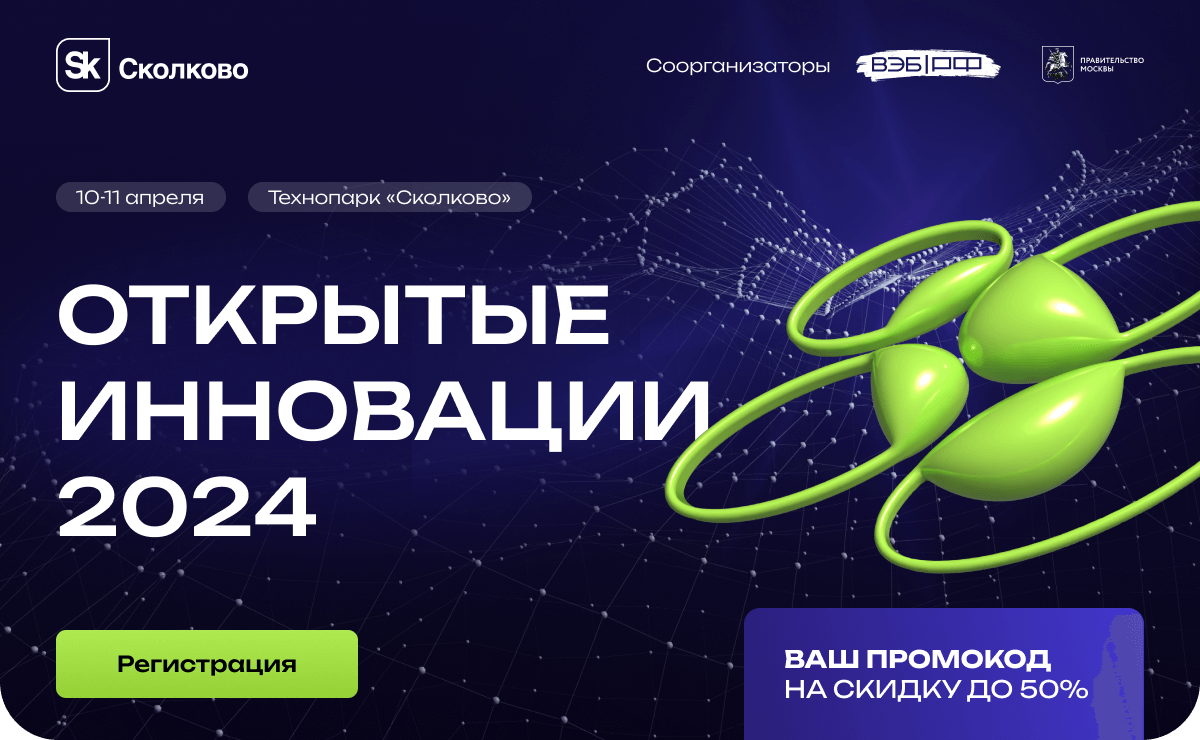
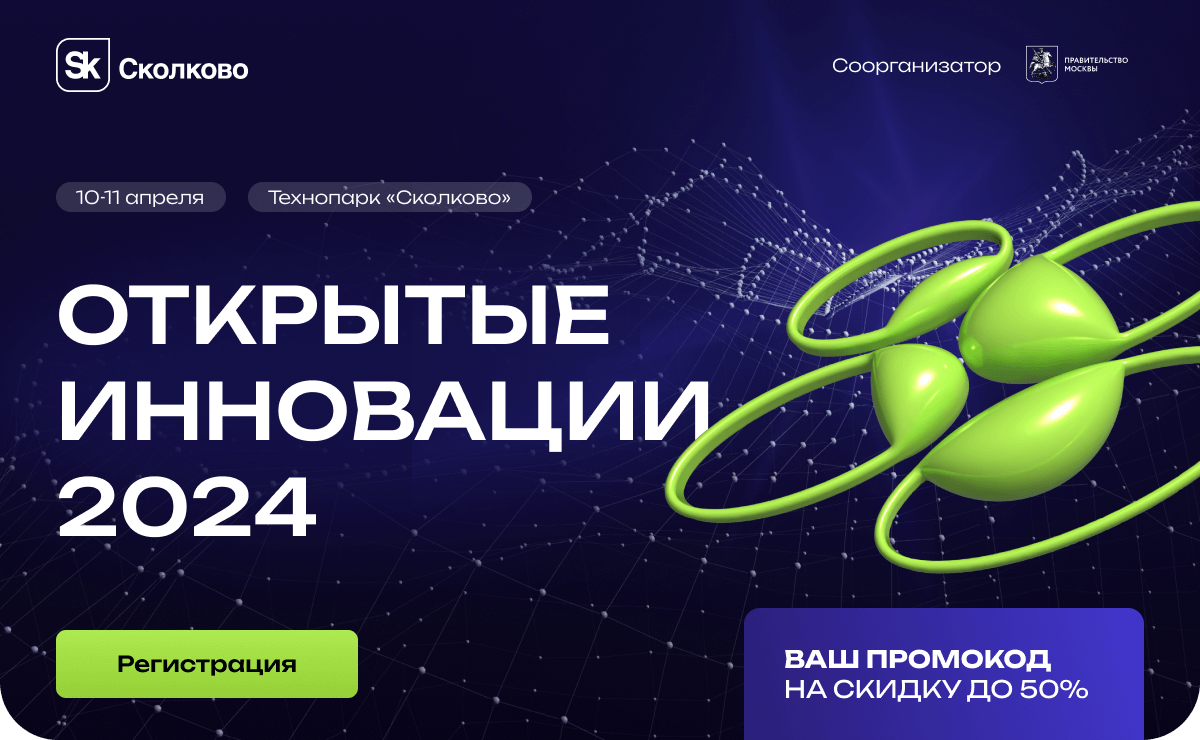
change open-innovations-2024-discount-2

Changed region(s): [[0.555, 0.0622, 0.9558, 0.1243], [0.925, 0.8081, 0.9558, 1.0]]

diff --git a/open-innovations-2024-discount-2/Промокод на скидку.html b/open-innovations-2024-discount-2/Промокод на скидку.html
@@ -92,7 +92,7 @@
                                             <td style="width: 640px;">
                                                 <a href="https://openinnovations.ru/registration/email?utm_source=email_in&utm_medium=letter&utm_campaign=5" target="_blank">
                                                 <img
-                                                        alt="10-11 апреля. Технопарк «Сколково». ОТКРЫТЫЕ ИННОВАЦИИ 2024. Соорганизаторы: ВЭБ РФ, Правительство Москвы. Ваш промокод на скидку до 50%. Нажмите здесь, чтобы зарегистрироваться."
+                                                        alt="10-11 апреля. Технопарк «Сколково». ОТКРЫТЫЕ ИННОВАЦИИ 2024. Соорганизатор: Правительство Москвы. Ваш промокод на скидку до 50%. Нажмите здесь, чтобы зарегистрироваться."
                                                         height="auto"
                                                         src="https://cp.unisender.com/ru/user_file?resource=images&user_id=5608985&name=oi-discount-2-hero.png"
                                                         style="border: 0; display: block; outline: 0; text-decoration: none; height: auto; width: 100%; font-size: 13px;color:#FFFFFF;"
@@ -490,91 +490,17 @@
                                     <table border="0" cellpadding="0" cellspacing="0" role="presentation" style="border-collapse:collapse;border-spacing:0px;">
                                         <tbody>
                                         <tr>
-                                            <td style="font-size: 0; word-break: break-word; padding: 28px 20px 31px;">
-                                                <div style="font-family: Unbounded, Helvetica, Arial, sans-serif; font-size: 22px; font-weight: 600; line-height: 1.3; color: #fff; max-width: 539px; width: 100%;">СООРГАНИЗАТОРЫ:</div>
+                                            <td style="font-size: 0; word-break: break-word; padding: 50px 20px 31px;">
+                                                <div style="font-family: Unbounded, Helvetica, Arial, sans-serif; font-size: 22px; font-weight: 600; line-height: 1.3; color: #fff; max-width: 539px; width: 100%;text-align: center;">СООРГАНИЗАТОР</div>
                                             </td>
                                         </tr>
-                                        </tbody>
-                                    </table>
-                                </td>
-                            </tr>
-                            </tbody>
-                        </table>
-                    </div>
-                    <!--[if mso | IE]></td></tr></table><![endif]-->
-                </td>
-            </tr>
-            </tbody>
-        </table>
-    </div>
-    <!--[if mso | IE]></td></tr></table><table align="center" border="0" cellpadding="0" cellspacing="0" class="" style="width:600px;background: #0E0B26; background-color: #0E0B26" width="600" bgcolor="#0E0B26"><tr><td style="line-height:1.1;font-size:0px;mso-line-height-rule:at-least;"><![endif]-->
-    <div style="margin:0px auto;max-width:600px;">
-        <table align="center" border="0" cellpadding="0" cellspacing="0" role="presentation" style="width:100%;">
-            <tbody>
-            <tr>
-                <td style="direction:ltr;font-size:0px;text-align:center;">
-                    <!--[if mso | IE]><table role="presentation" border="0" cellpadding="0" cellspacing="0"><tr><td class="" style="vertical-align:top;width:272px;margin-bottom:13px;" ><![endif]-->
-                    <div class="mj-outlook-group-fix" style="font-size:0px;text-align:left;direction:ltr;display:inline-block;vertical-align:top;width:272px;margin-bottom:13px;">
-                        <table border="0" cellpadding="0" cellspacing="0" role="presentation" style="vertical-align:top;" width="100%">
-                            <tbody>
-                            <tr>
-                                <td align="center" style="font-size:0px;padding:0;word-break:break-word;">
-                                    <table border="0" cellpadding="0" cellspacing="0" role="presentation" style="border-collapse:collapse;border-spacing:0px;">
-                                        <tbody>
                                         <tr>
-                                            <td style="width:252px;">
-                                                <img alt="ВЭБ РФ" height="auto" src="https://cp.unisender.com/ru/user_file?resource=images&user_id=5608985&name=open-innovations-reload-content-img-13.png" style="border:0;display:block;outline:none;text-decoration:none;height:auto;width:100%;font-size:13px;color:#FFFFFF;" width="252" />
+                                            <td style="width:520px;padding:0 20px;">
+                                                <img alt="Правительство Москвы" height="auto" src="https://cp.unisender.com/ru/user_file?resource=images&user_id=5608985&name=oi-goverment-moscow-big.png" style="border:0;display:block;outline:none;text-decoration:none;height:auto;width:100%;font-size:13px;color:#FFFFFF;" width="600" />
                                             </td>
                                         </tr>
-                                        </tbody>
-                                    </table>
-                                </td>
-                            </tr>
-                            </tbody>
-                        </table>
-                    </div>
-                    <!--[if mso | IE]></td><td class="" style="vertical-align:top;width:252px;" ><![endif]-->
-                    <div class="mj-outlook-group-fix" style="font-size:0px;text-align:left;direction:ltr;display:inline-block;vertical-align:top;width:252px;">
-                        <table border="0" cellpadding="0" cellspacing="0" role="presentation" style="vertical-align:top;" width="100%">
-                            <tbody>
-                            <tr>
-                                <td align="center" style="font-size:0px;padding:0;word-break:break-word;">
-                                    <table border="0" cellpadding="0" cellspacing="0" role="presentation" style="border-collapse:collapse;border-spacing:0px;">
-                                        <tbody>
                                         <tr>
-                                            <td style="width:252px;">
-                                                <img alt="Правительство Москвы" height="auto" src="https://cp.unisender.com/ru/user_file?resource=images&user_id=5608985&name=open-innovations-reload-content-img-14.png" style="border:0;display:block;outline:none;text-decoration:none;height:auto;width:100%;font-size:13px;color:#FFFFFF;" width="252" />
-                                            </td>
-                                        </tr>
-                                        </tbody>
-                                    </table>
-                                </td>
-                            </tr>
-                            </tbody>
-                        </table>
-                    </div>
-                    <!--[if mso | IE]></td></tr></table><![endif]-->
-                </td>
-            </tr>
-            </tbody>
-        </table>
-    </div>
-    <!--[if mso | IE]></td></tr></table><table align="center" border="0" cellpadding="0" cellspacing="0" class="" style="width:600px;background: #0E0B26; background-color: #0E0B26" width="600" bgcolor="#0E0B26"><tr><td style="line-height:1.1;font-size:0px;mso-line-height-rule:at-least;"><![endif]-->
-    <div style="margin:0px auto;max-width:600px;">
-        <table align="center" border="0" cellpadding="0" cellspacing="0" role="presentation" style="width:100%;">
-            <tbody>
-            <tr>
-                <td style="direction:ltr;font-size:0px;text-align:center;">
-                    <!--[if mso | IE]><table role="presentation" border="0" cellpadding="0" cellspacing="0"><tr><td class="" style="vertical-align:top;width:600px;" ><![endif]-->
-                    <div class="mj-column-per-100 mj-outlook-group-fix" style="font-size:0px;text-align:left;direction:ltr;display:inline-block;vertical-align:top;width:100%;">
-                        <table border="0" cellpadding="0" cellspacing="0" role="presentation" style="vertical-align:top;" width="100%">
-                            <tbody>
-                            <tr>
-                                <td align="center" style="font-size:0px;padding:0;word-break:break-word;">
-                                    <table border="0" cellpadding="0" cellspacing="0" role="presentation" style="border-collapse:collapse;border-spacing:0px;">
-                                        <tbody>
-                                        <tr>
-                                            <td align="center" style="font-size: 0; word-break: break-word; padding: 33px 20px 22px;">
+                                            <td align="center" style="font-size: 0; word-break: break-word; padding: 46px 20px 28px;">
                                                 <div style="font-family: Unbounded, Helvetica, Arial, sans-serif; font-size: 22px; font-weight: 600; line-height: 1.3; color: #fff; max-width: 539px; width: 100%;">
                                                     ГЕНЕРАЛЬНЫЙ ПАРТНЕР
                                                 </div>
